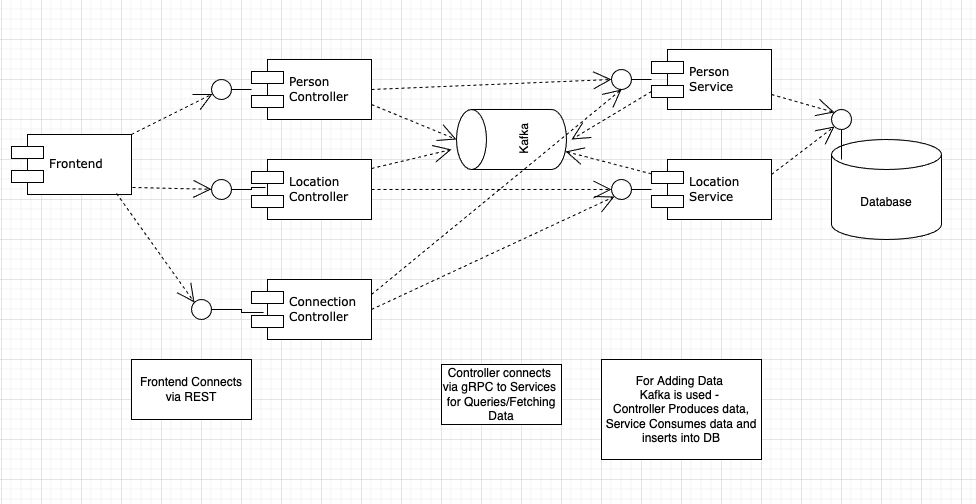
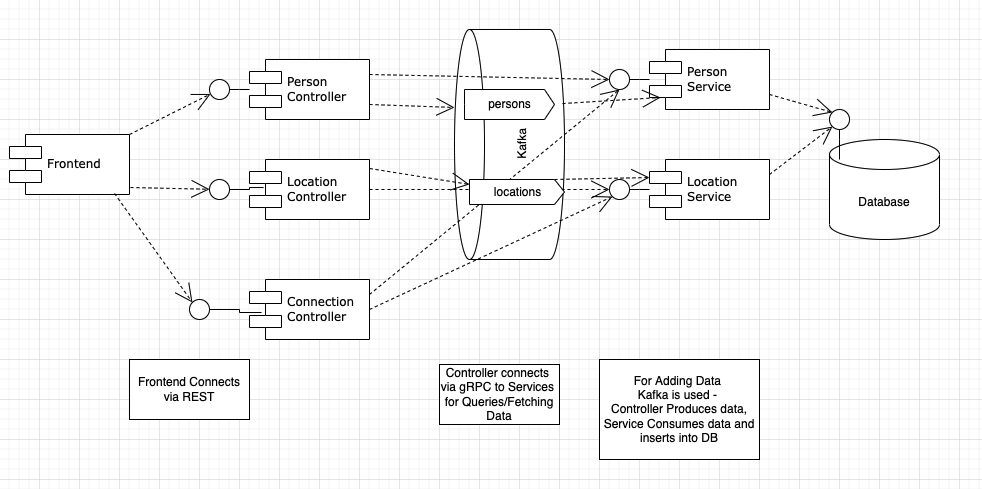
adaptions

diff --git a/README.md b/README.md
@@ -20,6 +20,7 @@ To do so, ***you will refactor this application into a microservice architecture
 * [K3s](https://k3s.io/) - Lightweight distribution of K8s to easily develop against a local cluster
 * [Kafka](https://kafka.apache.org/) - Distributed Streaming Platform
 * [Strimzi](https://strimzi.io/) - Kafka for Kubernetes
+* [Flask Kafka](https://pypi.org/project/flask-kafka/) - Kafka Wrapper for Flask to consume messages - remark: a KafkaConsumer is instantiated a different way with this dependency - see documentation
 
 ## Running the app
 The project has been set up such that you should be able to have the project up and running with Kubernetes.
@@ -83,9 +84,13 @@ Afterwards, you can test that `kubectl` works by running a command like `kubectl
 3. `kubectl apply -f deployment/postgres.yaml` - Set up a Postgres database running PostGIS
 4. `kubectl create -f 'https://strimzi.io/install/latest?namespace=default'` - Set up Strimzi Cluster Operator for Kafka
 5. `kubectl apply -f deployment/kafka.yaml` - Set up Kafka
-6. `kubectl apply -f deployment/udaconnect-api.yaml` - Set up the service and deployment for the API
-7. `kubectl apply -f deployment/udaconnect-app.yaml` - Set up the service and deployment for the web app
-8. `sh scripts/run_db_command.sh <POD_NAME>` - Seed your database against the `postgres` pod. (`kubectl get pods` will give you the `POD_NAME`)
+6. `kubectl apply -f deployment/udaconnect-service-locations.yaml` - Set up the service and deployment for handling Location data
+7. `kubectl apply -f deployment/udaconnect-service-persons.yaml` - Set up the service and deployment for handling Person data
+8. `kubectl apply -f deployment/udaconnect-api-locations.yaml` - Set up the service and deployment for the API of locations
+9. `kubectl apply -f deployment/udaconnect-api-persons.yaml` - Set up the service and deployment for the API of persons
+10. `kubectl apply -f deployment/udaconnect-api-connections.yaml` - Set up the service and deployment for the API of connections between persons dependng on their locations and time
+11. `kubectl apply -f deployment/udaconnect-app.yaml` - Set up the service and deployment for the web app
+12. `sh scripts/run_db_command.sh <POD_NAME>` - Seed your database against the `postgres` pod. (`kubectl get pods` will give you the `POD_NAME`)
 
 Manually applying each of the individual `yaml` files is cumbersome but going through each step provides some context on the content of the starter project. In practice, we would have reduced the number of steps by running the command against a directory to apply of the contents: `kubectl apply -f deployment/`.
 
@@ -97,8 +102,12 @@ Once the project is up and running, you should be able to see 3 deployments and 
 
 
 These pages should also load on your web browser:
-* `http://localhost:30001/` - OpenAPI Documentation
-* `http://localhost:30001/api/` - Base path for API
+* `http://localhost:30002/` - OpenAPI Documentation Persons API
+* `http://localhost:30002/api/` - Base path for API Persons
+* `http://localhost:30003/` - OpenAPI Documentation Locationss API
+* `http://localhost:30003/api/` - Base path for API Locations
+* `http://localhost:30004/` - OpenAPI Documentation Connection API
+* `http://localhost:30004/api/` - Base path for API Connections
 * `http://localhost:30000/` - Frontend ReactJS Application
 
 #### Deployment Note
